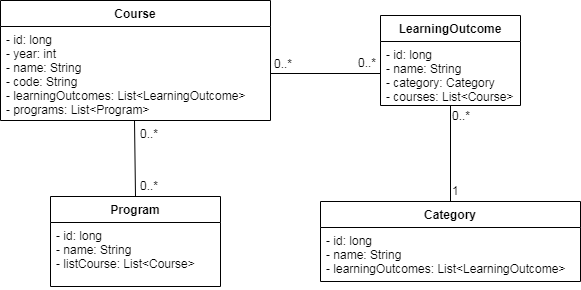
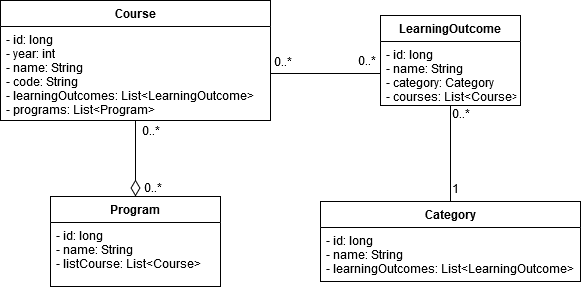
Updated UML Class Diagram

diff --git a/README.md b/README.md
@@ -33,3 +33,6 @@ A user should be able to list, for a given year and for a given program: all the
 
 <br>**_Current DB Schema_**<br>
 ![image](https://user-images.githubusercontent.com/15951317/53824917-0faf0d80-3f43-11e9-8e2b-ee262940208a.png)
+
+<br>**_UML Class Diagram_**<br>
+![umlClassDiagram](https://raw.githubusercontent.com/sysc4806/SYSC4806-WDWH/master/Images/UMLClassDiagram.png)
